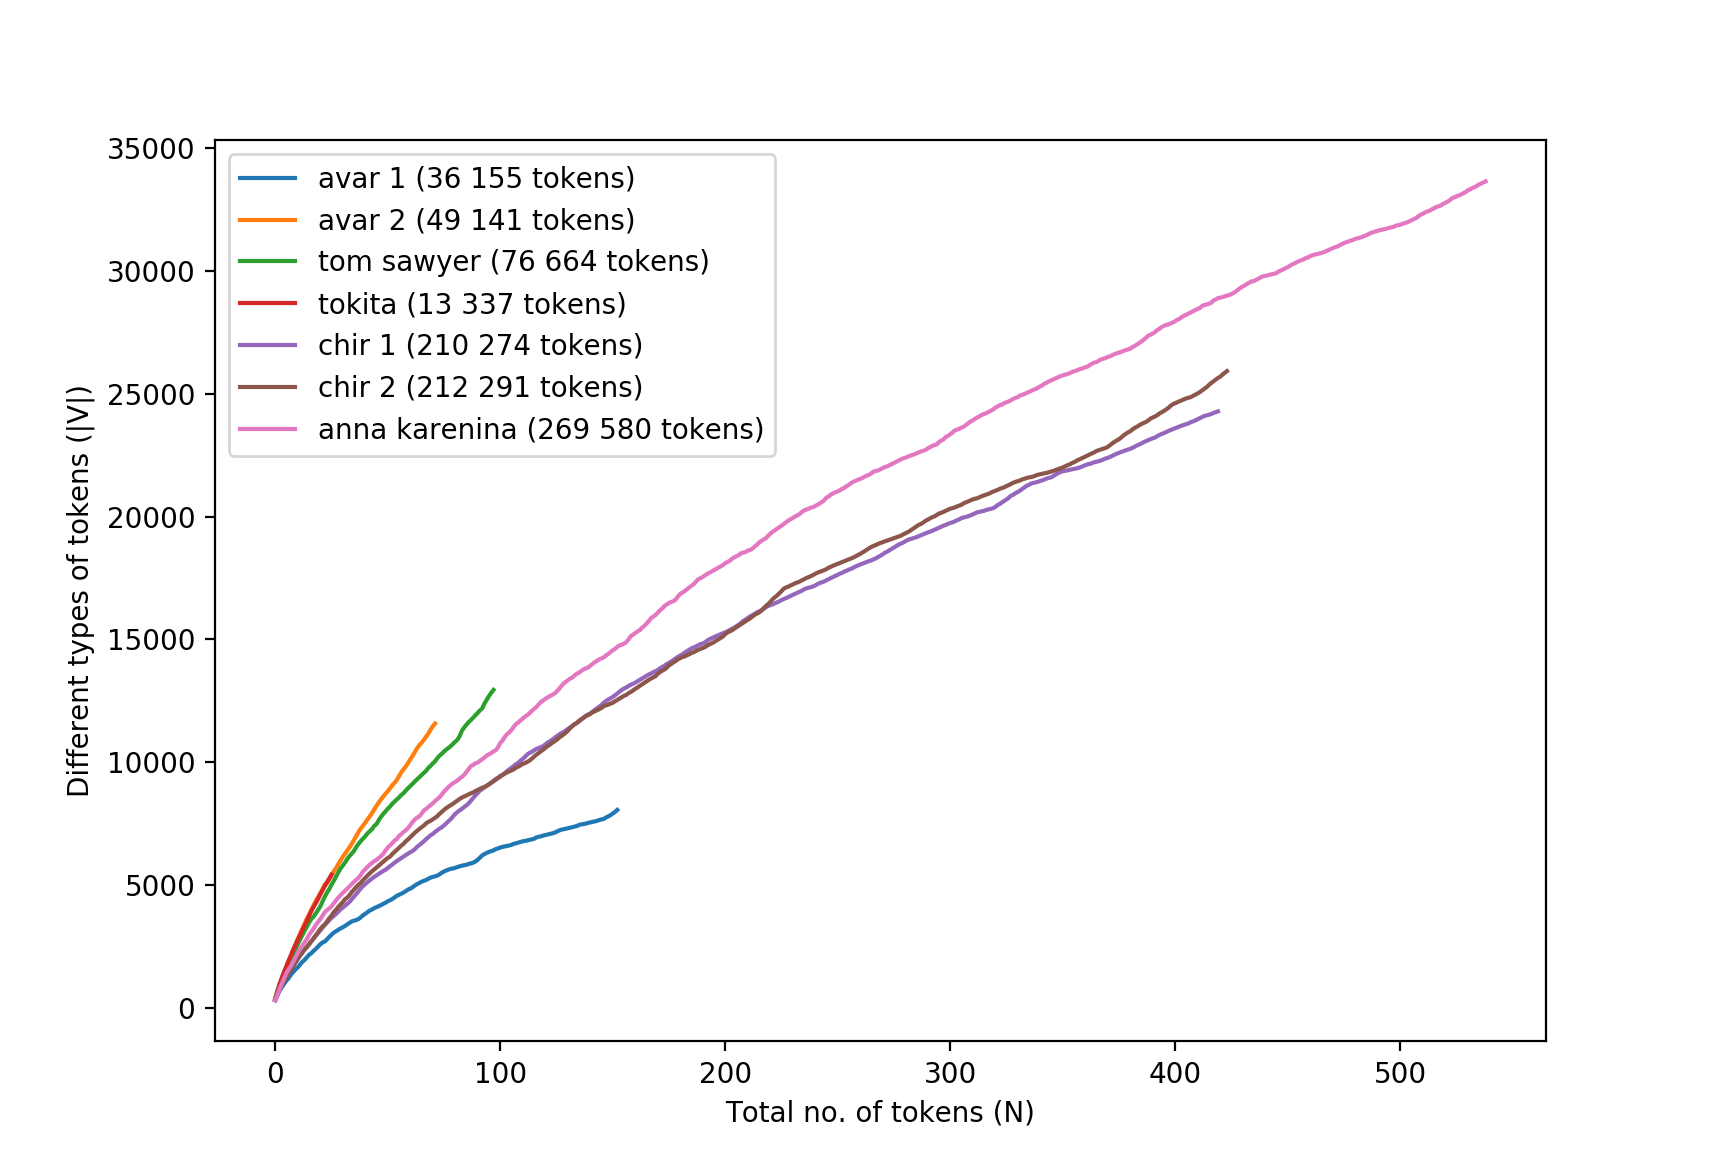
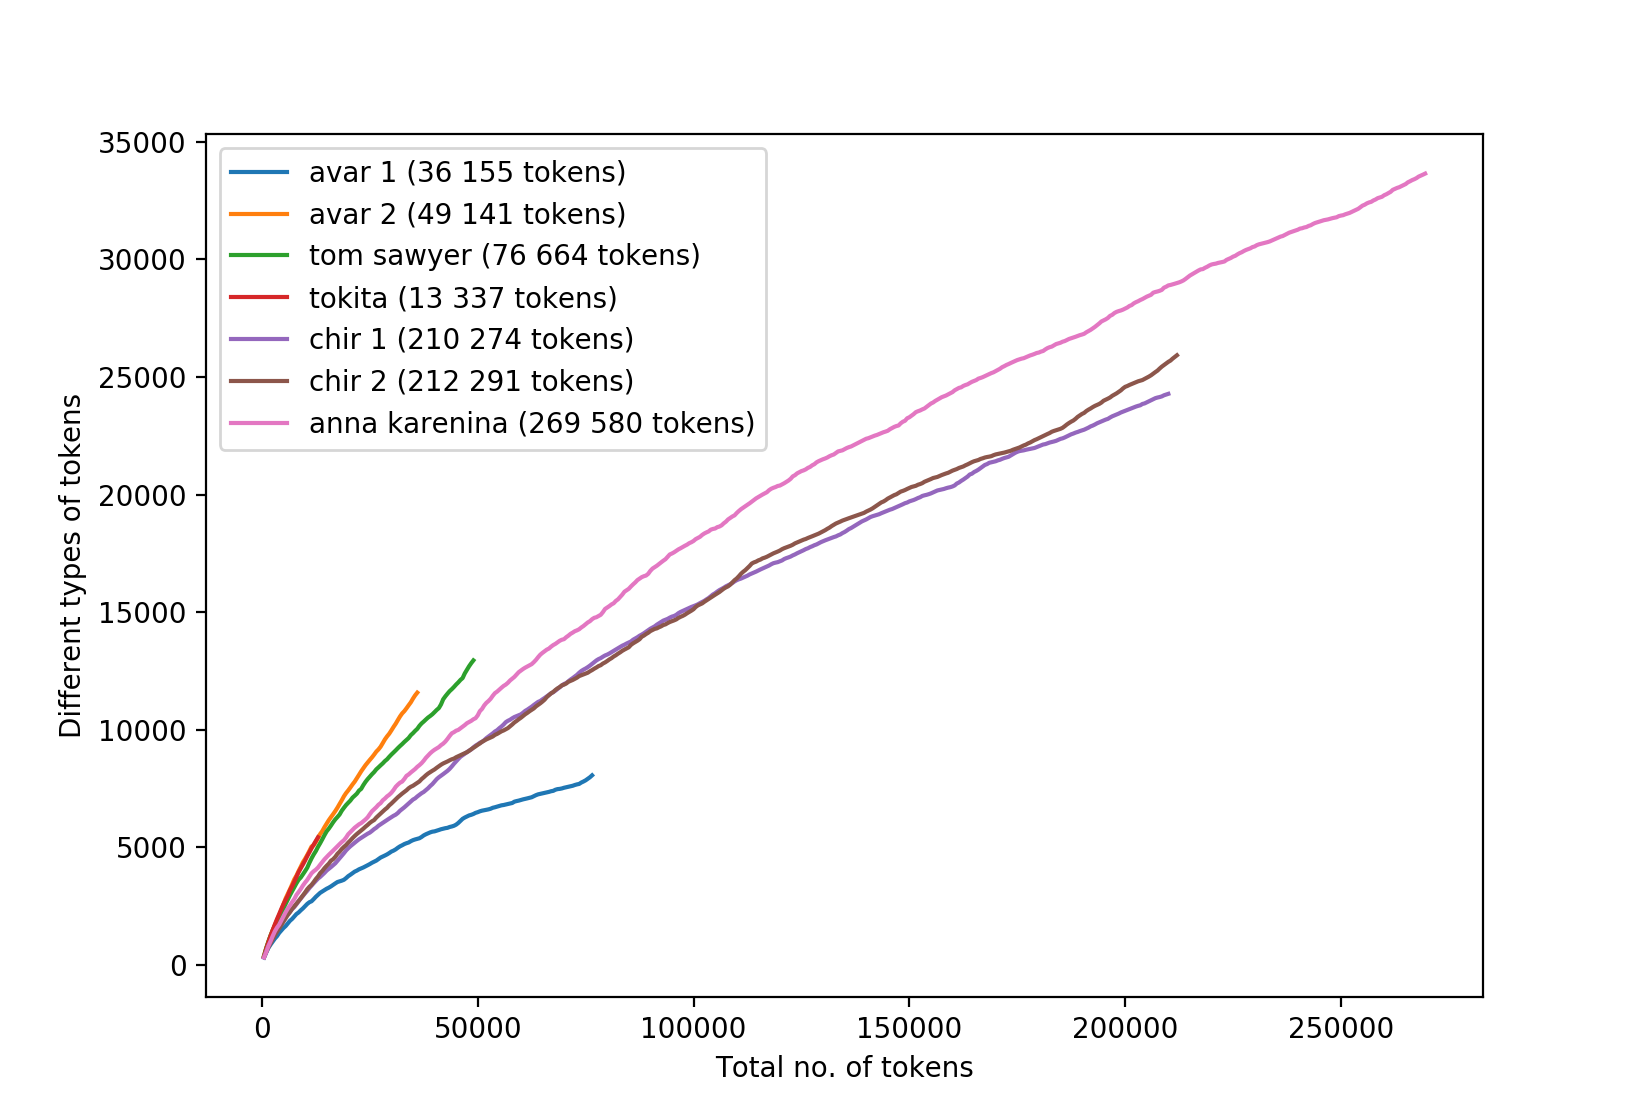
figure 0 corrected

diff --git a/make_and_visualize_freq_lists.py b/make_and_visualize_freq_lists.py
@@ -141,15 +141,16 @@ def plot_heap ():
     unique_words_chir2 = tokenization ("chir2.txt")[1]
     unique_words_anna = tokenization ("anna.txt")[1]
 
-    plt.plot(list(range(len(unique_words_tom))), [i for i in unique_words_tom], label="avar 1 (36 155 tokens)")
-    plt.plot(list(range(len(unique_words_avar1))), [i for i in unique_words_avar1], label="avar 2 (49 141 tokens)")
-    plt.plot(list(range(len(unique_words_avar2))), [i for i in unique_words_avar2], label="tom sawyer (76 664 tokens)")
-    plt.plot(list(range(len(unique_words_tkt))), [i for i in unique_words_tkt], label="tokita (13 337 tokens)")
-    plt.plot(list(range(len(unique_words_chir1))), [i for i in unique_words_chir1], label="chir 1 (210 274 tokens)")
-    plt.plot(list(range(len(unique_words_chir2))), [i for i in unique_words_chir2], label="chir 2 (212 291 tokens)")
-    plt.plot(list(range(len(unique_words_anna))), [i for i in unique_words_anna], label="anna karenina (269 580 tokens)")
-    plt.ylabel('Different types of tokens (|V|)')
-    plt.xlabel('Total no. of tokens (N)')
+    m=500
+    plt.plot([(i+1)*m for i in range(len(unique_words_tom))], [i for i in unique_words_tom], label="avar 1 (36 155 tokens)")
+    plt.plot([(i+1)*m for i in range(len(unique_words_avar1))], [i for i in unique_words_avar1], label="avar 2 (49 141 tokens)")
+    plt.plot([(i+1)*m for i in range(len(unique_words_avar2))], [i for i in unique_words_avar2], label="tom sawyer (76 664 tokens)")
+    plt.plot([(i+1)*m for i in range(len(unique_words_tkt))], [i for i in unique_words_tkt], label="tokita (13 337 tokens)")
+    plt.plot([(i+1)*m for i in range(len(unique_words_chir1))], [i for i in unique_words_chir1], label="chir 1 (210 274 tokens)")
+    plt.plot([(i+1)*m for i in range(len(unique_words_chir2))], [i for i in unique_words_chir2], label="chir 2 (212 291 tokens)")
+    plt.plot([(i+1)*m for i in range(len(unique_words_anna))], [i for i in unique_words_anna], label="anna karenina (269 580 tokens)")
+    plt.ylabel('Different types of tokens')
+    plt.xlabel('Total no. of tokens')
     plt.legend()
     plt.show()
 
